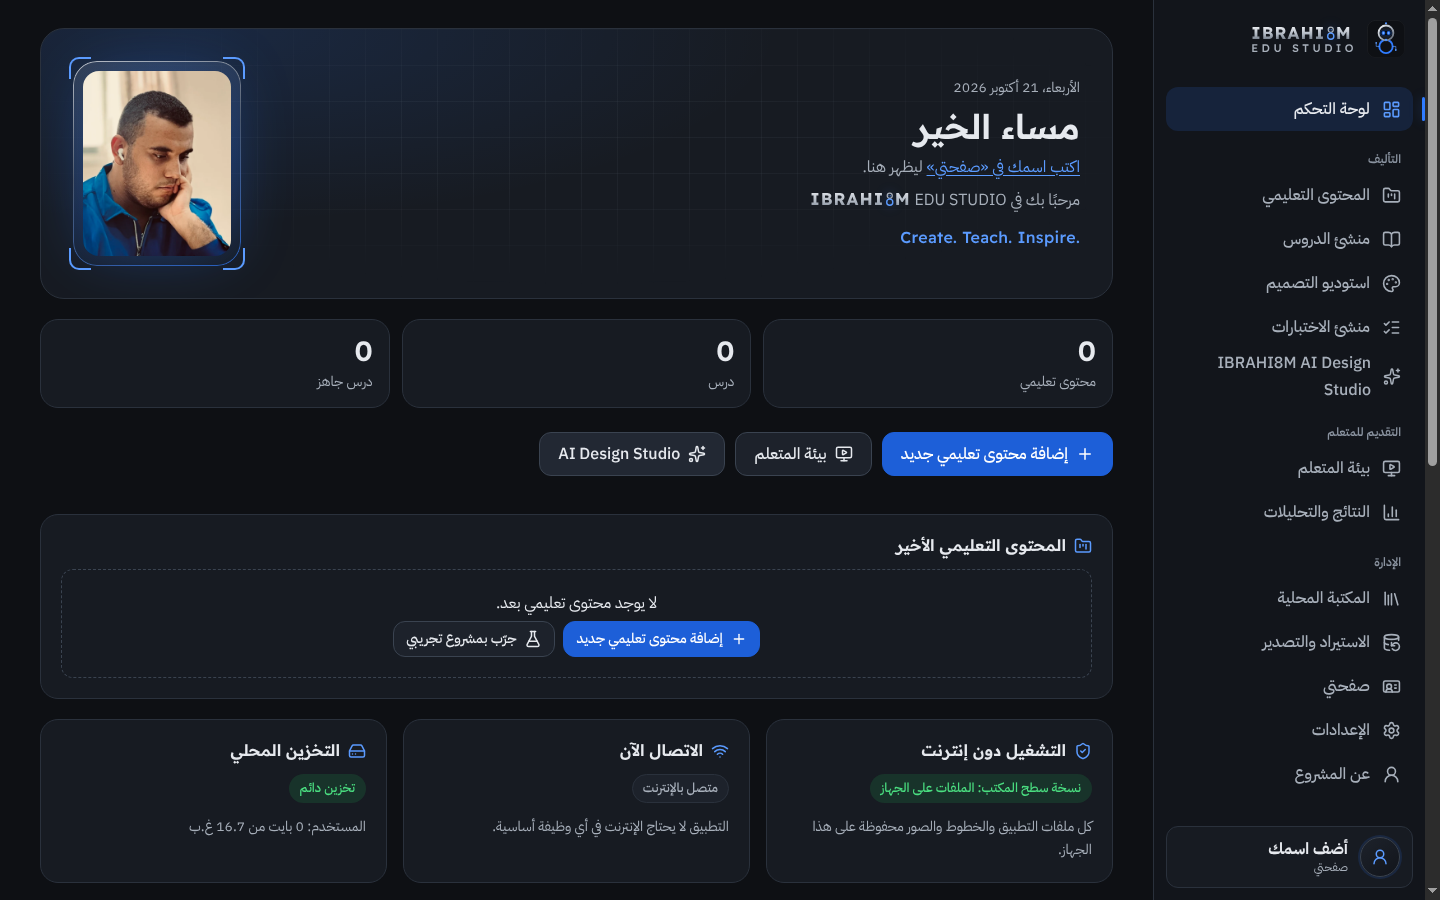
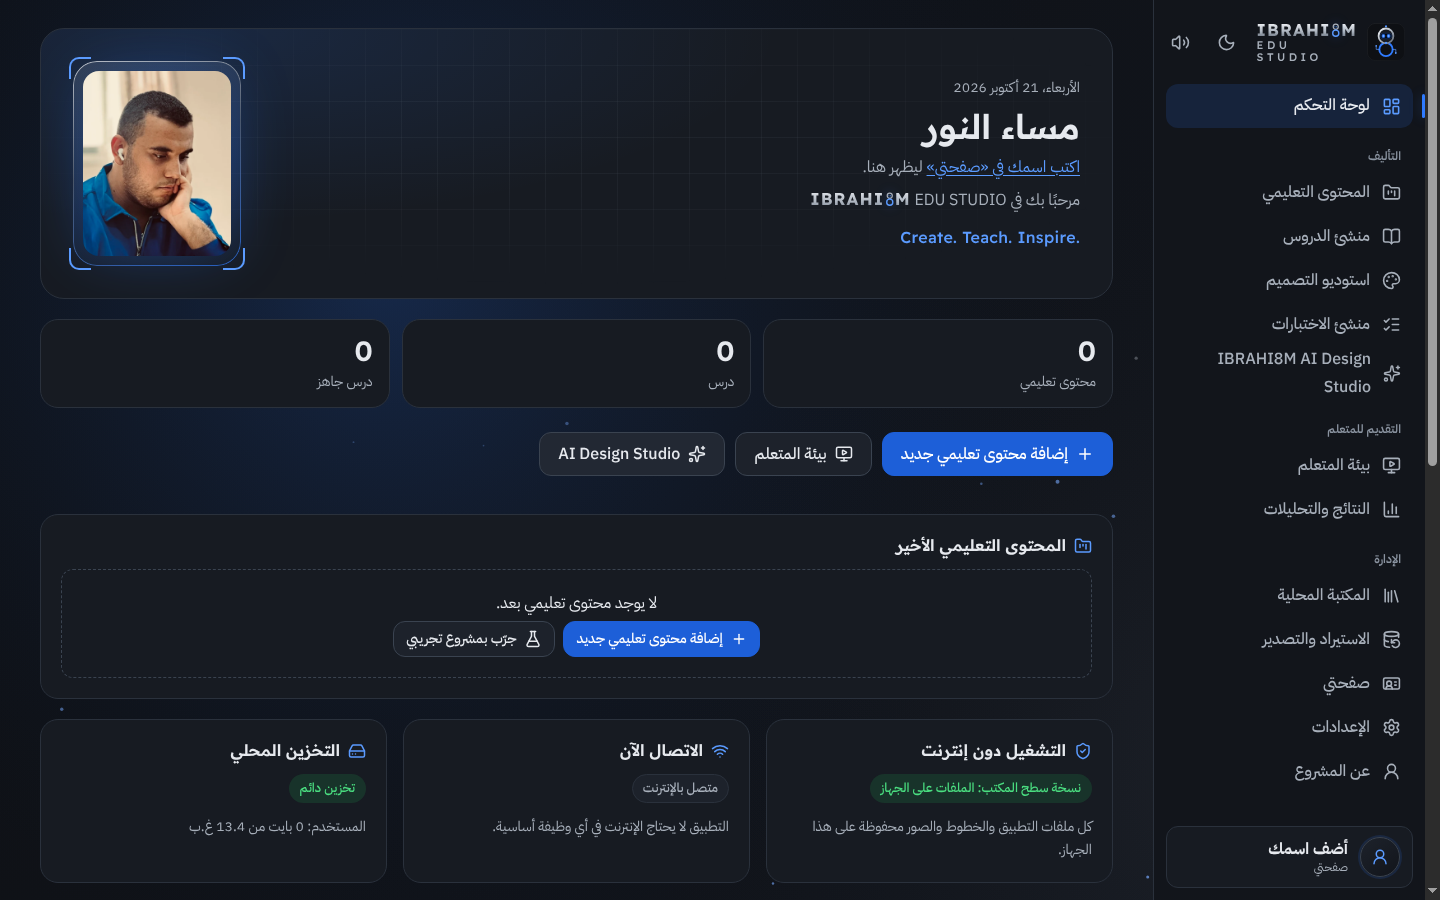
1.2.0: desktop appearance/sound test; theme labels in remaining tests; screenshots
Claude-Session: https://claude.ai/code/session_016S8pu8ojoQuHjbpHzx4QdA

diff --git a/tests/desktop/appearance-desktop.spec.ts b/tests/desktop/appearance-desktop.spec.ts
@@ -1,0 +1,31 @@
+import { _electron as electron, expect, test } from '@playwright/test';
+import { mkdtempSync } from 'node:fs';
+import { tmpdir } from 'node:os';
+import { join } from 'node:path';
+
+const launch = (userData: string) => electron.launch({ args: ['.', '--no-sandbox'], env: { ...process.env, IBRAHI8M_USER_DATA: userData } });
+
+/** 1.2.0 in the desktop app: background, theme and generated sound; choices survive a restart, playback does not. */
+test('desktop app: animated background, light theme and generated music work; after reopening the theme is kept and nothing plays', async () => {
+  test.setTimeout(120_000);
+  const userData = mkdtempSync(join(tmpdir(), 'ibrahi8m-desktop-look-'));
+  const app1 = await launch(userData);
+  const w1 = await app1.firstWindow();
+  await expect(w1.getByTestId('page-dashboard')).toBeVisible({ timeout: 10_000 });
+  await expect(w1.getByTestId('ambient-bg')).toHaveAttribute('data-state', 'moving');
+  await w1.locator('[data-testid=theme-button]:visible').click();
+  await expect.poll(() => w1.evaluate(() => document.documentElement.dataset.theme)).toBe('light');
+  await w1.locator('[data-testid=sound-button]:visible').click();
+  await w1.getByTestId('sound-popover').getByTestId('music-play').click();
+  await expect(w1.getByTestId('sound-popover').getByTestId('music-state')).toHaveText('تعمل الآن');
+  await expect.poll(() => w1.evaluate(() => (window as unknown as { ibrahi8mAudio: { log: { starts: number } } }).ibrahi8mAudio.log.starts)).toBe(1);
+  await app1.close();
+
+  const app2 = await launch(userData);
+  const w2 = await app2.firstWindow();
+  await expect(w2.getByTestId('page-dashboard')).toBeVisible({ timeout: 10_000 });
+  await expect.poll(() => w2.evaluate(() => document.documentElement.dataset.theme)).toBe('light');
+  await w2.waitForTimeout(500);
+  expect(await w2.evaluate(() => (window as unknown as { ibrahi8mAudio: { getState: () => { transport: string } } }).ibrahi8mAudio.getState().transport)).toBe('stopped');
+  await app2.close();
+});

diff --git a/tests/e2e/identity.spec.ts b/tests/e2e/identity.spec.ts
@@ -235,7 +235,7 @@ test.describe('Phase 7 — identity and demo content', () => {
         await page.waitForTimeout(500); // longest entrance (staggered cards) is 120 + 240 ms: colours are final after it
         for (const v of await serious(page)) problems.push(`${theme} ${name}: ${v}`);
         await fits(page, `${theme} ${name}`);
-        if (theme === 'داكن' && ['dashboard', 'project', 'preview', 'quiz-results', 'about'].includes(name))
+        if (theme === 'ليلي' && ['dashboard', 'project', 'preview', 'quiz-results', 'about'].includes(name))
           await page.screenshot({ path: `docs/screenshots/${testInfo.project.name}/p7-${name}.png` });
       }
     }

diff --git a/tests/e2e/responsive.spec.ts b/tests/e2e/responsive.spec.ts
@@ -96,7 +96,7 @@ test.describe('Phase 0 — responsive shell', () => {
   });
 
   test('no serious accessibility violations (axe) in dark and light themes', async ({ page }) => {
-    for (const theme of ['داكن', 'فاتح']) {
+    for (const theme of ['ليلي', 'نهاري']) { // 1.2.0 labels (were داكن/فاتح)
       await page.goto('./#/settings');
       await page.getByRole('radio', { name: theme }).click();
       for (const r of ['', 'settings', 'about', 'projects', 'more']) {

diff --git a/tests/e2e/projects.spec.ts b/tests/e2e/projects.spec.ts
@@ -259,7 +259,7 @@ test.describe('Phase 1 — projects and lessons', () => {
     await page.keyboard.press('Escape');
     await expect(dlg).toBeHidden();
 
-    for (const theme of ['داكن', 'فاتح']) {
+    for (const theme of ['ليلي', 'نهاري']) { // 1.2.0 labels (were داكن/فاتح)
       await page.goto('./#/settings');
       await page.getByRole('radio', { name: theme }).click();
       for (const url of ['./#/projects', './#/projects?tab=lessons', './']) {
